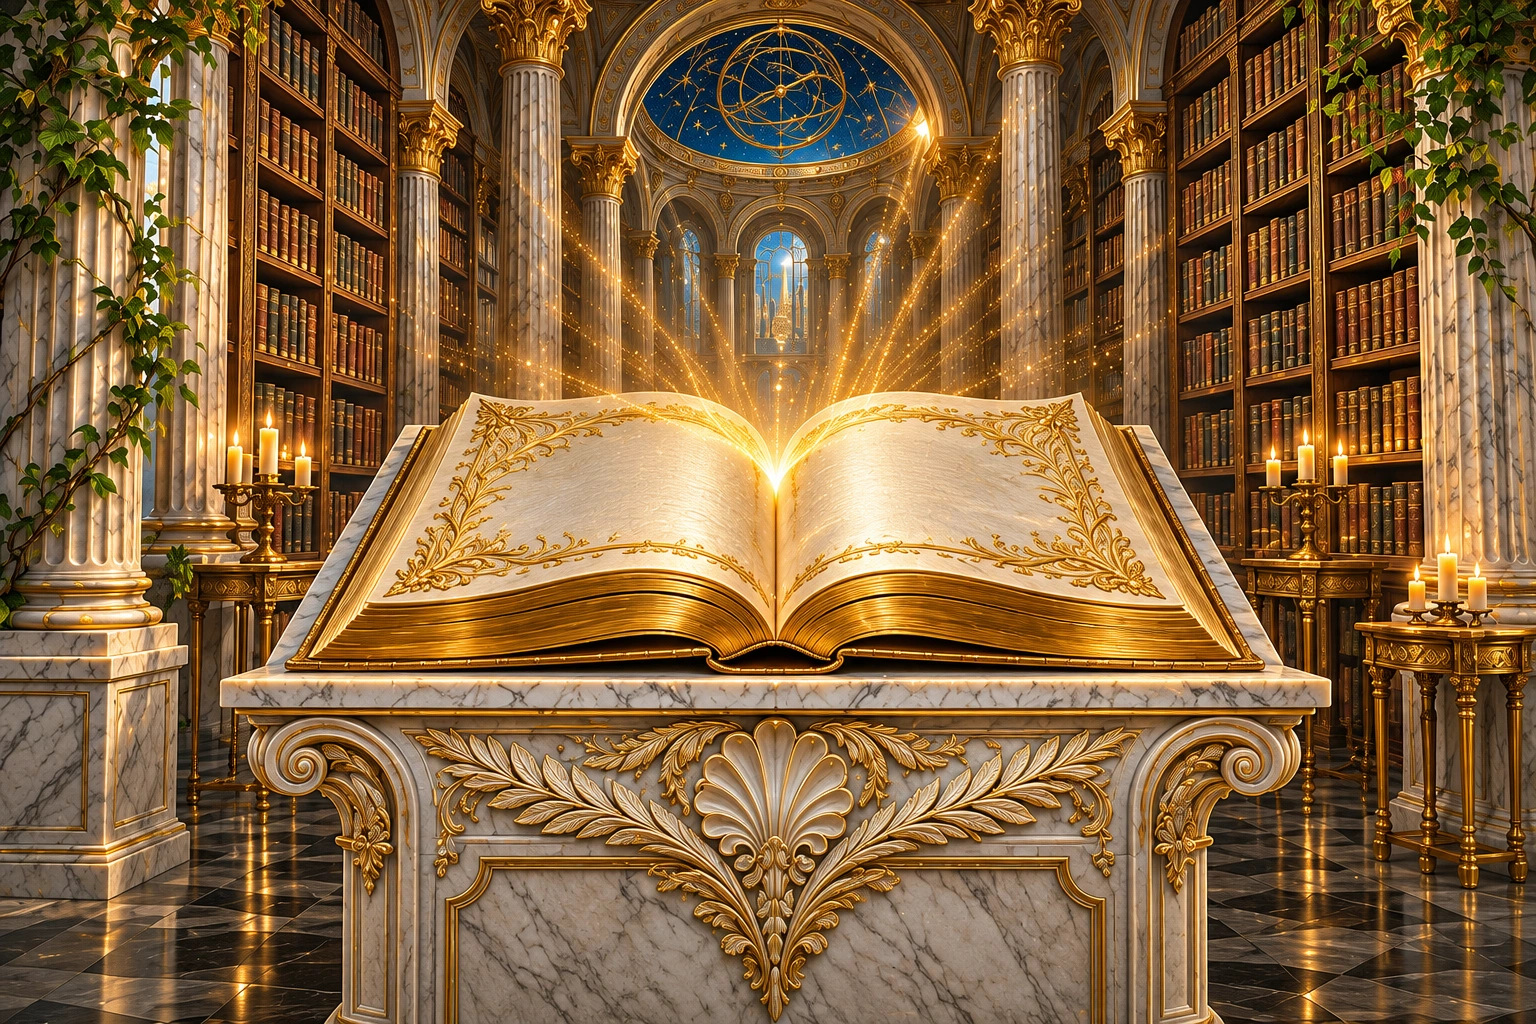
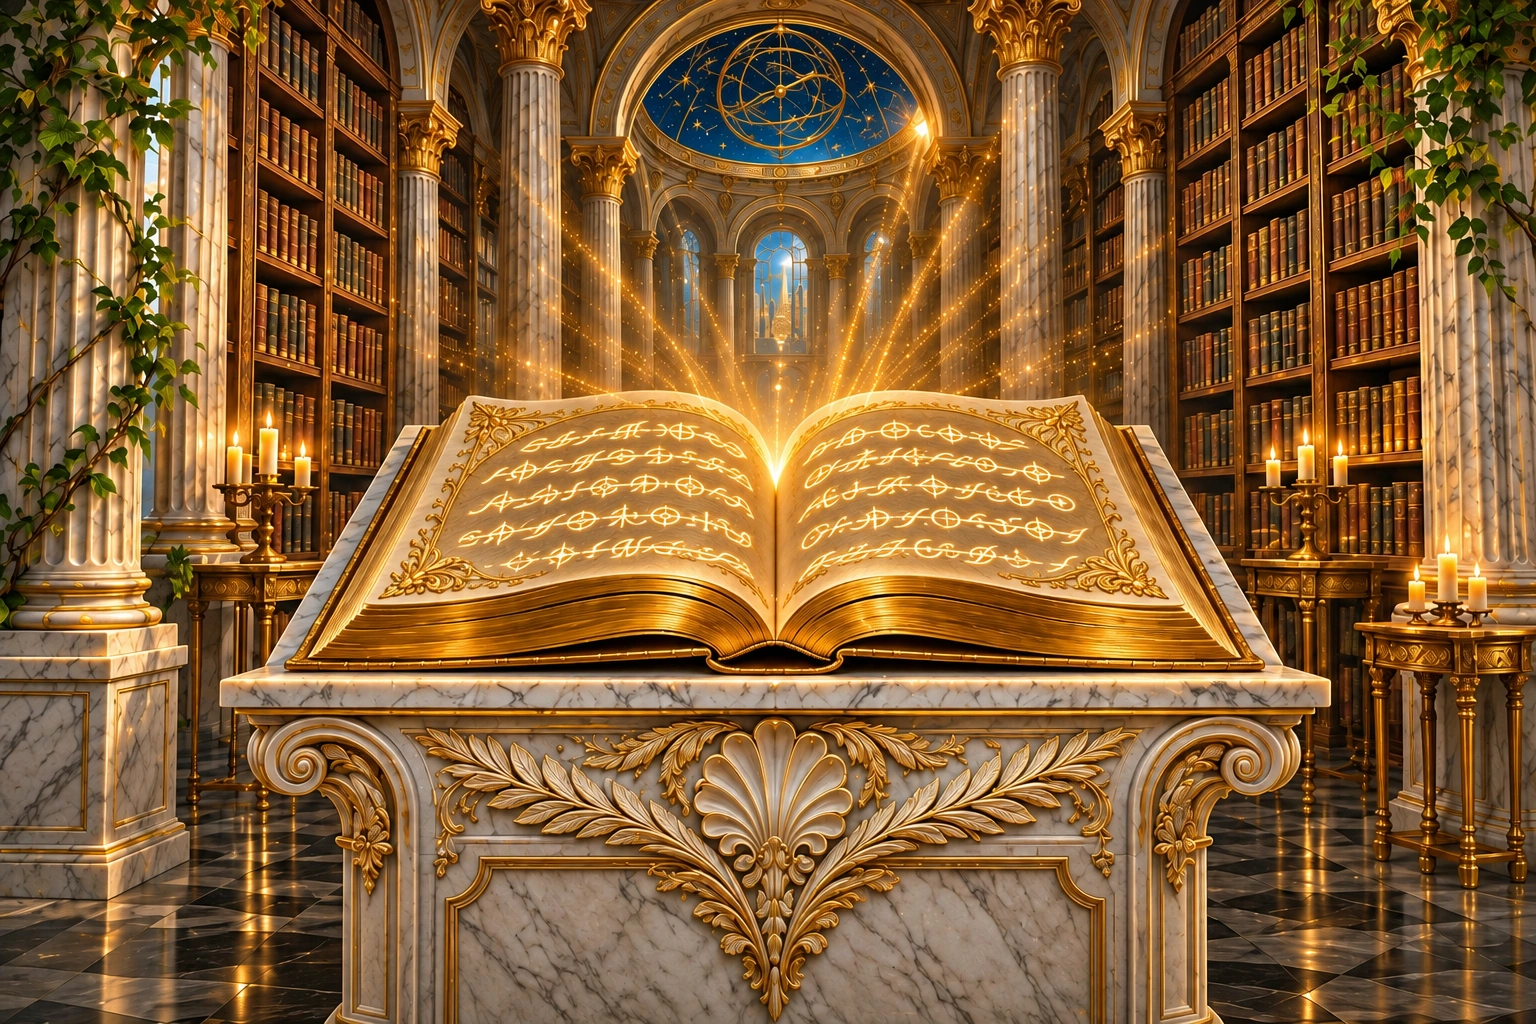
Balance homepage typography and add glass cards with luminous book script

diff --git a/assets/styles/realm.css b/assets/styles/realm.css
@@ -409,21 +409,31 @@ body.realm-reader.reader-fullscreen{padding:0;background:var(--realm-bg)}
 .realm-page .realm-icon-button:hover{filter:brightness(1.18);transform:translateY(-1px)}
 .realm-page .realm-icon-button:active{transform:translateY(1px)}
 .realm-world-card{
-  clip-path:none;border:1px solid #e0b85f;border-radius:3px;border-top-color:#fff1bf;
-  box-shadow:inset 0 1px 0 #fff6d8b3,0 3px 0 #a37a36,0 9px 20px #080d124d;
+  clip-path:none;border:1px solid #efd696b3;border-radius:8px;border-top-color:#fff9e8e6;
+  background:#d3e4d81a;
+  box-shadow:inset 0 2px 0 #fffbe2b3,inset 1px 0 0 #ffffff66,inset 0 -2px 0 #c2a26180,
+    0 4px 0 #17261bcc,0 10px 24px #04100a80;
   transition:transform .25s ease,filter .25s ease,box-shadow .25s ease;
 }
 .realm-world-card::before{
-  border:1px solid #f5d88d99;border-radius:1px;
-  background:linear-gradient(125deg,#fff1c62b,transparent 40%,#0c141319 80%);
-  box-shadow:inset 0 1px 1px #fff7dc80;
+  inset:1px;border:1px solid #fff4c880;border-radius:6px;opacity:.9;
+  background:linear-gradient(155deg,#ffffff70 0%,#ffffff24 27%,#ffffff0d 44%,transparent 44.5%),
+    linear-gradient(112deg,transparent 42%,#ffffff1f 49%,transparent 55%),
+    linear-gradient(0deg,#e9f5ed14,transparent 30%);
+  box-shadow:inset 0 1px 1px #fffdf0e6,inset 0 0 0 3px #ffffff14,inset 0 -1px 0 #ffffff4d;
+  transition:opacity .25s ease;
 }
-.realm-world-card h2,.realm-world-card .realm-arrow{color:#ffe4a3;text-shadow:0 1px 3px #201407}
+.realm-world-card::after{background:linear-gradient(180deg,transparent 18%,#10251c0d 36%,#0c1714e8 100%)}
+.realm-world-card h2,.realm-world-card .realm-arrow{color:#ffe4a3;text-shadow:0 1px 3px #09140b}
+.realm-world-card p{text-shadow:0 1px 4px #07140b}
 .realm-world-card:hover{
-  transform:translateY(-3px);
-  box-shadow:inset 0 1px 0 #fff6d8b3,0 6px 0 #a37a36,0 14px 24px #080d1259;
+  transform:translateY(-3px);filter:brightness(1.08);
+  box-shadow:inset 0 2px 0 #fffdf0e6,inset 1px 0 0 #ffffff80,inset 0 -2px 0 #c2a26180,
+    0 7px 0 #17261bcc,0 16px 30px #04100a99;
 }
-.realm-world-card:active{transform:translateY(2px);box-shadow:0 1px 0 #a37a36,0 4px 9px #080d124d}
+.realm-world-card:hover::before{opacity:1}
+.realm-world-card:focus-visible{outline:2px solid #fff1bd;outline-offset:4px}
+.realm-world-card:active{transform:translateY(2px);box-shadow:inset 0 1px 0 #fffbe299,0 1px 0 #17261bcc,0 4px 9px #04100a66}
 .realm-page :is(button,.page-nav-btn):disabled{filter:saturate(.35);opacity:.5;box-shadow:none;transform:none}
 @media(prefers-reduced-motion:reduce){html{scroll-behavior:auto!important}.realm-page *,.realm-page *::before,.realm-page *::after{animation:none!important;transition:none!important;scroll-behavior:auto!important}.realm-page .page-body p,.realm-page .cover-content>*,.realm-page .cover-summary p,.realm-page .manuscript p,.realm-page .section-break,.realm-page .closing-ornament,.realm-page .continue-row,.realm-page .back-link{opacity:1!important;transform:none!important}.realm-page .hero-title,.realm-page .header-title{opacity:1!important}.realm-world-card:hover{transform:none}.realm-world-card:hover img{transform:none}::view-transition-group(*),::view-transition-old(*),::view-transition-new(*){animation:none!important}}
 @media print{.realm-header,.realm-search-dialog,.realm-manuscript-tools,#realm-footer,.realm-skip{display:none!important}.realm-page{background:white!important;color:black!important;padding:0!important}.realm-manuscript .hero{margin-top:0}.realm-manuscript .manuscript-wrap{border:0;box-shadow:none;width:100%}.realm-page .manuscript p{opacity:1!important;transform:none!important;color:black!important}.realm-reader #book{padding:0;height:auto}.realm-reader .page{position:relative;opacity:1;overflow:visible;break-inside:avoid}.realm-reader .page-inner,.realm-reader .page-body{overflow:visible}.realm-reader #search-bar,.realm-reader #reader-toolbar,.realm-reader #comment-section,.realm-reader #page-bar{display:none}}
@@ -470,3 +480,21 @@ body.realm-reader:not(.reader-fullscreen){padding-top:calc(var(--realm-header) +
 .realm-reader #reading-progress-bar{top:calc(var(--realm-header) + env(safe-area-inset-top,0px))}
 
 .realm-reader.reader-fullscreen .cover-content{min-height:0;max-height:100%;box-sizing:border-box;overflow-y:auto;overscroll-behavior:contain}
+
+/* Equal letter columns and equal vertical gaps centre the entire welcome block. */
+.realm-home .legacy-welcome{--welcome-gap:32px;--acronym-size:clamp(24px,4vw,48px);padding-block:72px;row-gap:0}
+.realm-home .legacy-welcome .hero-ornament{margin:0 auto 24px;padding-left:.55em}
+.realm-home .legacy-welcome .hero-eyebrow{margin:0 auto var(--welcome-gap);padding-left:.5em;line-height:1.5}
+.realm-home .legacy-welcome .hero-divider{display:none}
+.realm-home .legacy-welcome .acronym{
+  display:grid;grid-template-columns:repeat(5,minmax(0,1fr) clamp(10px,2.6vw,28px)) minmax(0,1fr);
+  align-items:start;gap:0;width:min(100%,820px);max-width:100%;margin:0 auto;overflow:visible;
+}
+.realm-home .legacy-welcome .acr-letter{min-width:0;font-size:var(--acronym-size);line-height:1.15;gap:12px;margin:0;text-align:center}
+.realm-home .legacy-welcome .acr-word{font-size:clamp(9px,1.5vw,14px);line-height:1.4;letter-spacing:0;white-space:nowrap;text-align:center;font-weight:400}
+.realm-home .legacy-welcome .acr-arrow{display:grid;place-items:center;height:calc(var(--acronym-size) * 1.15);font-size:var(--acronym-size);line-height:1;margin:0;gap:0}
+.realm-home .legacy-welcome .acr-arrow-spacer{display:none}
+.realm-home .legacy-welcome .acr-arrow-glyph{font-size:.55em;line-height:1}
+.realm-home .legacy-welcome .hero-tagline{width:min(100%,650px);max-width:650px;margin:var(--welcome-gap) auto 0;text-align:center;text-wrap:pretty}
+.realm-home .legacy-welcome .hero-author{margin:24px auto 0;padding-left:.22em}
+@media(max-width:700px){.realm-home .legacy-welcome{--welcome-gap:28px;padding-block:56px}}

diff --git a/index.html b/index.html
@@ -406,6 +406,7 @@
     <div class="acr-letter" style="--delay:0.65s">A<span class="acr-word">Artistry</span></div>
     <div class="acr-arrow" style="--delay:0.75s"><span class="acr-arrow-spacer">&nbsp;</span><span class="acr-arrow-glyph">&rarr;</span></div>
     <div class="acr-letter" style="--delay:0.85s">H<span class="acr-word">Heightened</span></div>
+    <div class="acr-arrow" style="--delay:0.95s" aria-hidden="true"><span class="acr-arrow-glyph">&rarr;</span></div>
     <div class="acr-letter acr-self" style="--delay:1.05s">S<span class="acr-word">Self</span></div>
   </div>
 

diff --git a/service-worker.js b/service-worker.js
@@ -1,7 +1,7 @@
 // My Noegenesis — Service Worker
 // Caches all pages for offline use and fast loading
 
-const CACHE_NAME = 'demahs-realm-v4';
+const CACHE_NAME = 'demahs-realm-v5';
 
 // List every file in your site here
 const ASSETS = [

diff --git a/scripts/smoke-redesign.py b/scripts/smoke-redesign.py
@@ -294,7 +294,7 @@ with sync_playwright() as p:
     # Readiness requires all precached URLs, not merely an active worker.
     assets = re.findall(r"'(/[^']*)'", (ROOT / 'service-worker.js').read_text().split('const ASSETS = [', 1)[1].split('];', 1)[0])
     page.wait_for_function('navigator.serviceWorker.controller !== null')
-    page.wait_for_function("async (assets) => {const c=await caches.open('demahs-realm-v4'); return (await Promise.all(assets.map(a=>c.match(a)))).every(Boolean);}", arg=assets)
+    page.wait_for_function("async (assets) => {const c=await caches.open('demahs-realm-v5'); return (await Promise.all(assets.map(a=>c.match(a)))).every(Boolean);}", arg=assets)
     desktop.set_offline(True)
     page.goto(BASE + '/advice.html?page=1', wait_until='domcontentloaded')
     page.wait_for_function('ReaderState.getCurrent() === 1')

diff --git a/REDESIGN.md b/REDESIGN.md
@@ -172,7 +172,7 @@ The original HTML changes are shared presentation hooks/landmarks (plus the rede
 
 Each of the 33 e-readers has a newly generated portrait illustration representing its own title and subject. Palettes vary by topic (for example ruby for Our Heart, cosmic indigo for Gravitation, ice white for Purity, ember red for Hellfire and warm sepia for Reading). The surrounding site retains its leaf-green night appearance; the artwork has no shared green tint.
 
-Cover mappings, subject descriptions and palettes are documented in `assets/images/covers/collection.json`. Each reader declares its own `data-cover` and preloads the corresponding WebP. Shared CSS maps that identifier to the correct artwork and uses neutral shading behind selectable HTML title/author text. The title block sits above the main image subject; existing placeholder-only cover summaries are hidden, while real summaries and book text are retained. Offline cache version 3 includes all 33 cover images.
+Cover mappings, subject descriptions and palettes are documented in `assets/images/covers/collection.json`. Each reader declares its own `data-cover` and preloads the corresponding WebP. Shared CSS maps that identifier to the correct artwork and uses neutral shading behind selectable HTML title/author text. The title block sits above the main image subject; existing placeholder-only cover summaries are hidden, while real summaries and book text are retained. The offline cache includes all 33 cover images.
 
 The cover checks require exactly one unique image per reader, validate WebP headers and distinct file hashes, and decode each mapped cover in Chromium at every responsive test size. Original chapter data and reader logic outside the shared fullscreen controller remain unchanged.
 
@@ -183,4 +183,10 @@ The cover checks require exactly one unique image per reader, validate WebP head
 - `assets/scripts/reader.js` replaces the duplicated inline fullscreen controllers. Installed standalone/fullscreen PWAs use in-app fullscreen without requesting a second native fullscreen session; regular browser tabs retain native fullscreen when available and a CSS fallback when denied or absent.
 - The fullscreen reader uses Visual Viewport dimensions, safe-area padding and a flex layout with reserved exit/navigation space. Container animations, perspective and preserved 3D transforms are disabled during fullscreen to avoid compositor clipping. Resize, rotation, app resume, native exits and double-tap are handled centrally; leaving restores scroll position and the reader button focus.
 - `python scripts/smoke-fullscreen.py` exercises PWA mode, denied/absent native APIs, viewport changes, page turns and double-tap, then enter/exit on every reader. `DEMAHS_FULLSCREEN_ENGINE=webkit` runs the same checks with a locally installed Playwright WebKit. Tests emulate installed-app mode; physical iPhone/Android Home Screen sessions still require device verification.
-- Offline cache version 4 includes the new shared controller.
+- The offline cache includes the shared reader controller.
+
+## Homepage alignment, glass cards and illuminated book
+
+The welcome acronym uses six equal letter/definition columns and five arrows aligned with the letters, including H → S. Welcome to and the tagline share the acronym's centre line, with matching 32px gaps above/below (28px on phones). The section also has balanced top/bottom padding.
+
+The Library, Foundations, The Person and Destiny cards have layered translucent reflections, fine glass-like edges, inner highlights and deeper hover shadows. Their artwork remains sharp under the decorative surface. Both responsive library image variants now show invented mystical calligraphy formed from white-gold light on the open book's pages. Offline cache version 5 includes the updated artwork.
